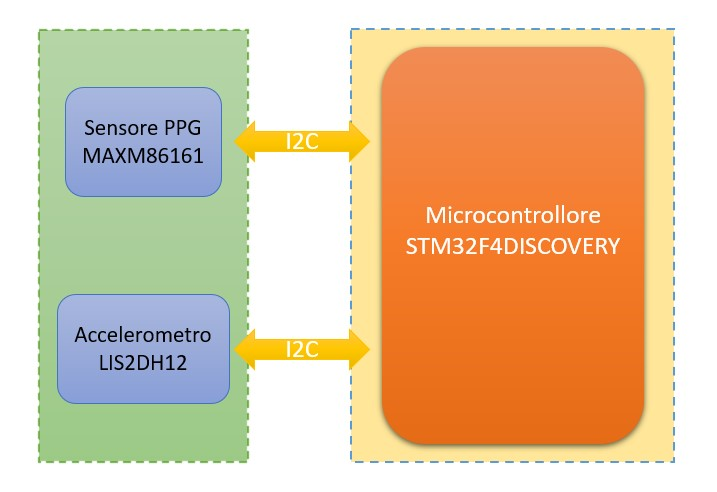
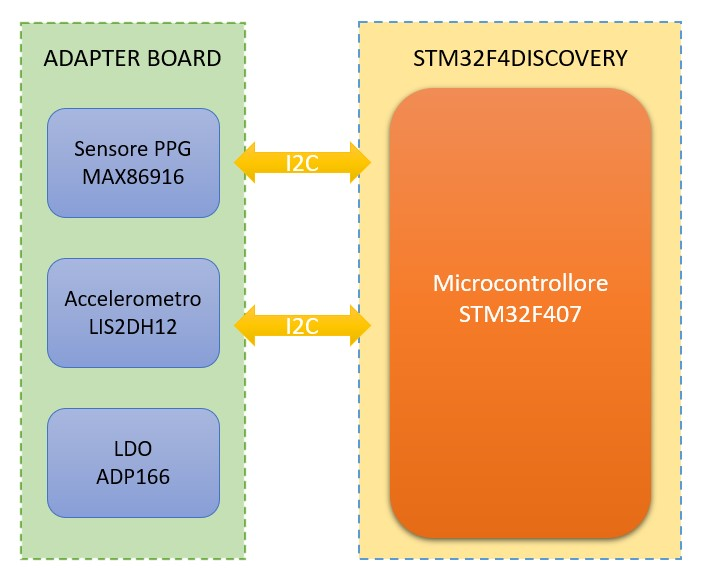
descrizione ppg e accelerometro adpter board maxm86161.. manca la parte di pcb

diff --git a/Tesi/TextFiles/Progetto della piattaforma indossabile/Hardware dell’adapter board.tex b/Tesi/TextFiles/Progetto della piattaforma indossabile/Hardware dell’adapter board.tex
@@ -1,5 +1,5 @@
 \section{Hardware dell'adapter board}
-L'hardware utilizzato per condurre lo studio oggetto di questa tesi consiste in due piattaforme indossabili per effettuare misure fotopletismografiche. Ciascuna piattaforma si compone di una Adapter Board e un microcontrollore. L'Adapter Board consiste in una PCB sulla quale sono montati il modulo PPG, un accelerometro ed un eventuale LDO per l'alimentazione dei componenti. Il microcontrollore viene utilizzato per l'acquisizione dei dati dai sensori e per il loro controllo. In particolare è stato utilizzata la board STM32F4DISCOVERY, prodotta da STMicroelectronics, in entrambi i casi.
+L'hardware utilizzato per condurre lo studio oggetto di questa tesi consiste in due piattaforme indossabili per effettuare misure fotopletismografiche. Ciascuna piattaforma si compone di una Adapter Board e una scheda ospitante un microcontrollore. L'\textit{Adapter Board} consiste in una PCB sulla quale sono montati il modulo PPG, un accelerometro ed un eventuale LDO per l'alimentazione dei componenti. Il microcontrollore viene utilizzato per l'acquisizione dei dati dai sensori e per il loro controllo. In particolare è stata utilizzata la board \textbf{STM32F4DISCOVERY}, prodotta da STMicroelectronics, in entrambi i casi, che ospita il micrcontrollore \textbf{STM32F407}.
 La due piattaforme progettate si differenziano per l'Adapter Board, dal momento che sono stati utilizzati due differenti moduli PPG: il MAXM86161 e il MAX86916. Entrambi i sensori sono prodotti da Maxim Integrated.
 \subsection{Adapter Board: MAXM86161}
 \begin{figure}[h]
@@ -7,25 +7,28 @@ La due piattaforme progettate si differenziano per l'Adapter Board, dal momento 
 	\includegraphics[width=0.8\linewidth]{ImageFiles/Hardware/diagramma_blocchi_MAXM}
 	\caption{Diagramma a blocchi della piattaforma con sensore MAXM86161.}
 	\label{fig:diagramma_blocchi_MAXM}
-\end{figure} \todo{attenzione al accelerometro e al microcontrollore..  Metterei il nome con Discovery fuori dal riquadro arancione scuro (essendo la board) e dentro il nome del micor.... quasi quasi mettere l'immagine con sensore PPG generico sopra nell'introduzione così poi da lasciare qui e nel capitolo successivo le immagini del manufacturing (o layout ) delle board }
-L'Adapter Board è la scheda che monta il sensore PPG utilizzato per fare le acquisizioni che, vengono fatte con il microcontrollore STM32F4DISCOVERY.\todo{stessi commenti sui nomi .. questa cosa in generale è stata già parzialmente detta sopra... per questo metterei la figura sopra e spiegherei anche la storia I2c sopra così vale per entrambi} I due sottosistemi utilizzano il protocollo I\ap{2}C per comunicare. Come riportato in figura \Fig~\ref{fig:AssorbimentoEmolglobina},\todo{che riferimento è questo?} la scheda contiene solamente il sensore PPG e un accelerometro. Grazie al numero ridotto di componenti è stato possibile ottenere una scheda dalle dimensioni molto piccole (12,4 x 4,6 mm).
+\end{figure}
+L'Adapter Board è la scheda che monta il sensore PPG utilizzato per fare le acquisizioni che, vengono fatte con la board STM32F4DISCOVERY. I due sottosistemi utilizzano il protocollo I\ap{2}C per comunicare. 
+Come riportato in figura \Fig~\ref{fig:diagramma_blocchi_MAXM}, la scheda contiene solamente il sensore PPG e un accelerometro triassiale. Grazie al numero ridotto di componenti è stato possibile ottenere una scheda dalle dimensioni molto piccole (12,4 x 4,6 mm).
 \begin{figure}[h]
 	\centering
 	\includegraphics[width=0.8\linewidth]{ImageFiles/Hardware/MAXM86161_Layout}
 	\caption{MAXM86161 magari evidenziare i led e fotodiodo}
-	\label{fig:xxxx}
+	\label{fig:MAXM86161_Layout}
 \end{figure}
-\paragraph{Sensore PPG} Il sensore PPG utilizzato è il MAXM86161, prodotto da Maxim Integrated, descritto precedentemente come stato dell'arte.\todo{mettere almeno un paio di righe di discrizione}
+\paragraph{Sensore PPG} Il sensore PPG utilizzato è il MAXM86161 \Fig~\ref{fig:MAXM86161_Layout}, prodotto da Maxim Integrated, descritto precedentemente come stato dell'arte. Si tratta quindi di un circuito integrato, a basso consumo, per acquisizioni di dati ottici. Il sensore integra 3 LED (rosso, infrarosse e verde), un fotodiodo e un regolatore di tensione lineare(LDO), che viene utilizzato per fornire l'alimentazione ai LED. Il MAXM86161 necessita di una singola tensione di alimentazione che deve essere compresa tra i 3.0V e 5.5V. Le dimensioni di questo modulo sono estremamente ridotte (2.9mm x 4.3mm x 1.4mm), che lo rendono molto flessibile nelle modalità di utilizzo e sopratutto adatto per sistemi di misura indossabili.
 
-\paragraph{Accelerometro} \todo{dispositivo errato.. mettere un po più di descrizione sulle caratteristiche anche elettriche (stiamo facendo una tesi di elettronica :) come per i moduli}L'accelerometro utilizzato è \textbf{LIS2DH12} prodotto da STMicroelectronics. Si tratta di un circuito integrato a basso consumo e dalle piccole dimensioni (2 x 2 mm). Questo sensore viene utilizzato per migliorare la qualità delle acquisizioni fotopletismografiche quando il soggetto è in movimento, fornendo un'informazione sull'entità di quest'ultimo, e quindi del disturbo che si introduce nella misura. \todo{Parliamo anche del modello nuovo?}
+\paragraph{Accelerometro} Insieme alle acquisizioni del sensore PPG vengono integrate anche delle misure accelero-metriche. L'accelerometro utilizzato è \textbf{LIS2DH12} \cite{STMicroelectronicsLIS2DH12} prodotto da STMicroelectronics. Si tratta di un accelerometro triassiale a basso consumo e dalle piccole dimensioni (2 x 2 mm). Questo sensore viene utilizzato per migliorare la qualità delle acquisizioni fotopletismografiche quando il soggetto è in movimento, fornendo un'informazione sull'entità di quest'ultimo, e quindi del disturbo che si introduce nella misura. Il LIS2DH12 richiede una tensione di alimentazione compresa tra i 1.71V e i 3.6V, con un consumo di corrente pari a \SI{185}{\micro\ampere}.
+
+\paragraph{Progetto PCB}
 
 \subsection{Adapter Board: MAX86916}
-Questa \textit{Adapter Board}\todo{perchè qui in corsivo e prima mai???} invece contiene tre circuiti integrati che sono: il sensore PPG, un regolatore di tensione (LDO) e un accelerometro.
+Questa \textit{Adapter Board} invece contiene tre circuiti integrati che sono: il sensore PPG, un regolatore di tensione (LDO) e un accelerometro.
 \begin{figure}[h]
 	\centering
 	\includegraphics[width=0.6\linewidth]{ImageFiles/Hardware/MAX86916_Layout}
 	\caption{MAX86916 magari mettere in evidenza led e foto diodo}
-	\label{fig:xxxx}
+	\label{fig:MAX86916_Layout}
 \end{figure}
 
 \paragraph{Sensore PPG} Il sensore PPG utilizzato è il MAX86916, prodotto da Maxim Integrated, descritto precedentemente come stato dell'arte.
